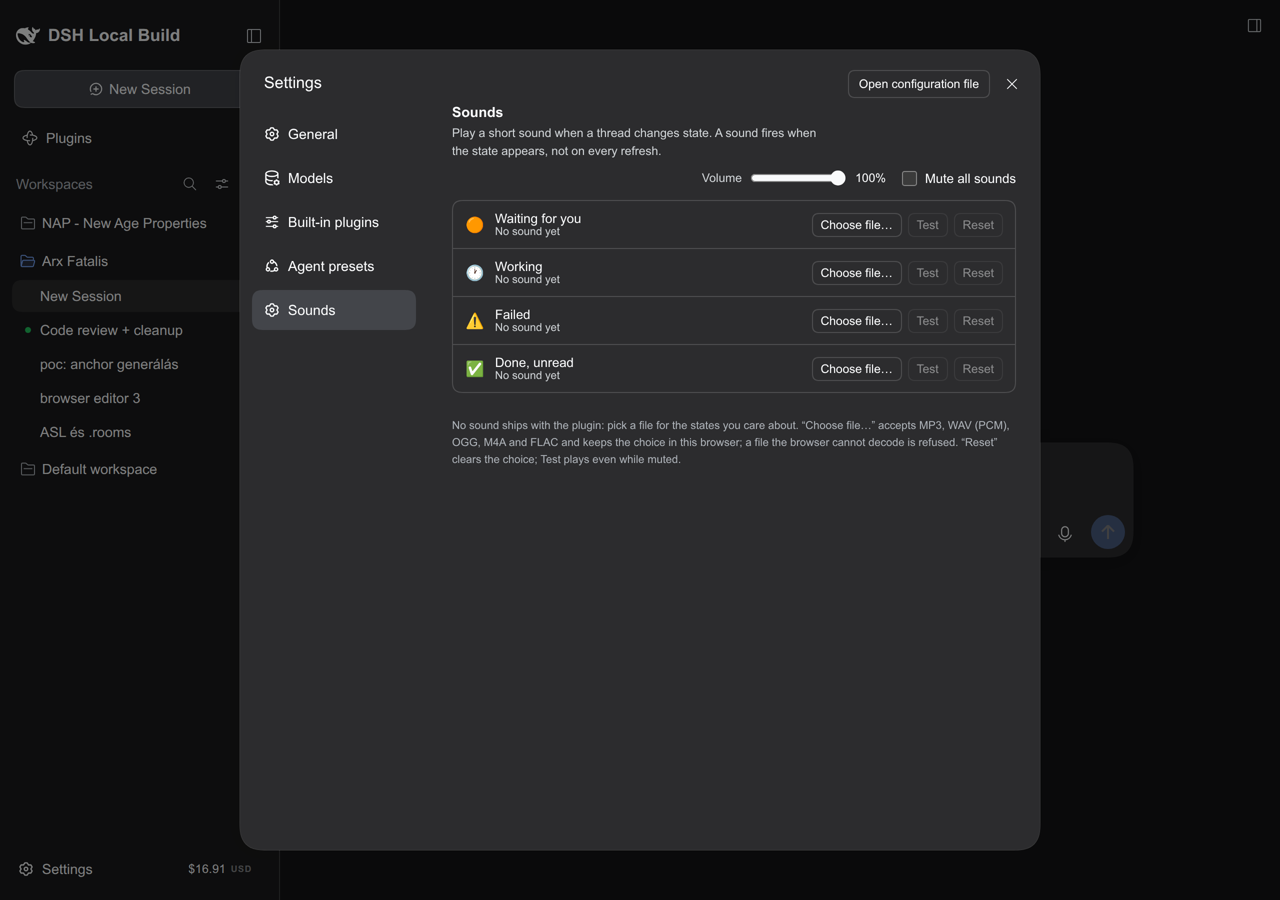
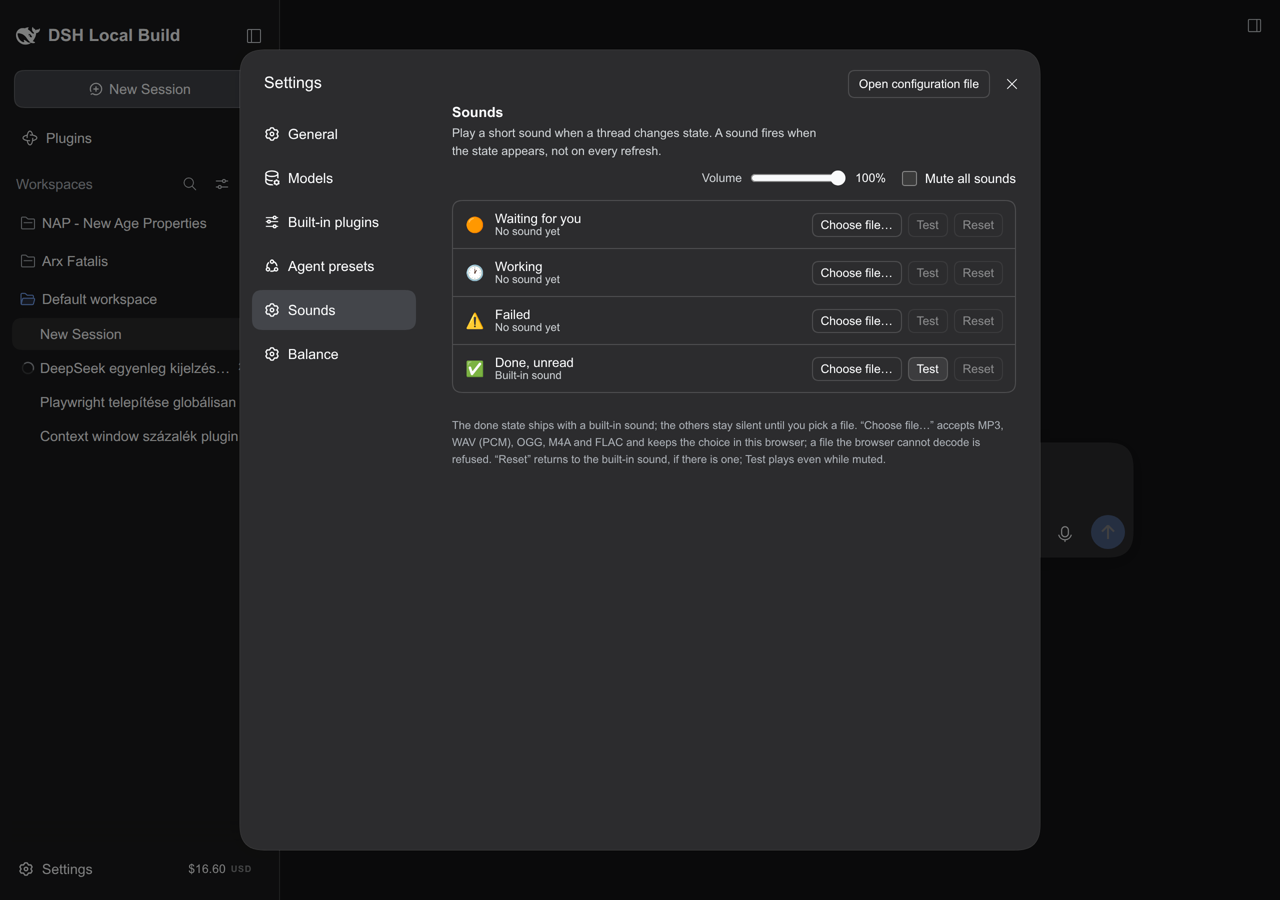
Ship the tada as the built-in done sound
The done state now plays a short built-in tada when everything settles, so the
happy path needs no setup. The other three states stay silent until a file is
picked; Reset returns to the built-in sound where one exists.

- the sound is embedded as an MP3 data URL, with its source kept at
  sounds/done.mp3
- the Sounds card labels it Built-in sound and enables Test for it
- version 1.2.0

diff --git a/client.js b/client.js
@@ -43,6 +43,21 @@ window.__ModuleLoader__.load({
     /** Host route carrying the last `turn/end` outcome per Session. */
     const STATUS_URL = '/plugins/dsh-title-indicator/status'
 
+    /**
+     * Built-in sound for the done state, embedded as a data URL.
+     *
+     * It ships inside the client bundle rather than behind a host route: this
+     * profile's HMR watches configuration only, so a new host route would stay
+     * dormant until the next restart, while a bundle update lands on the next
+     * page load. The source file lives beside this module as `sounds/done.mp3`.
+     *
+     * The other three states stay silent until the user picks a file, so the
+     * package ships exactly one, deliberately chosen sound.
+     */
+    const DEFAULT_SOUNDS = {
[1 lines of base64/hex data omitted]
+    }
+
     /** Title refresh cadence, and the poll for fresh turn outcomes. */
     const REFRESH_MS = 2000
 
@@ -592,9 +607,10 @@ window.__ModuleLoader__.load({
      * Owns the sound choices and the transition playback.
      *
      * Settings are per browser: the mute flag, the volume and one audio blob per
-     * state live in IndexedDB. No sound ships with the package, so a state stays
-     * silent until the user picks a file for it. The manager is deliberately
-     * injectable so the package test can drive it without a browser.
+     * state live in IndexedDB. The done state has a built-in sound from
+     * {@link DEFAULT_SOUNDS}; every other state stays silent until the user picks
+     * a file for it. The manager is deliberately injectable so the package test
+     * can drive it without a browser.
      *
      * @param {object} [services] - test seams.
      * @param {object} [services.store] - read/write/remove backend.
@@ -616,10 +632,12 @@ window.__ModuleLoader__.load({
 
       const buildSnapshot = () => {
         const customNames = {}
+        const builtIn = {}
         for (const state of SOUND_STATES) {
           customNames[state] = typeof custom[state]?.name === 'string' ? custom[state].name : null
+          builtIn[state] = typeof DEFAULT_SOUNDS[state] === 'string'
         }
-        return Object.freeze({ ready, muted, volume, custom: customNames })
+        return Object.freeze({ ready, muted, volume, custom: customNames, defaults: builtIn })
       }
 
       let snapshot = buildSnapshot()
@@ -723,8 +741,14 @@ window.__ModuleLoader__.load({
           if (!SOUND_STATES.includes(state)) return
           if (options.force !== true && muted) return
           const entry = custom[state]
-          // No sound ships with the package: silence until a file is picked.
-          if (entry === undefined) return
+          // A picked file wins; otherwise the state's built-in sound, if any.
+          if (entry === undefined) {
+            const fallback = DEFAULT_SOUNDS[state]
+            if (typeof fallback !== 'string') return
+            stopCurrent()
+            currentStop = playAudio(fallback, volume)
+            return
+          }
           if (typeof URL === 'undefined' || typeof URL.createObjectURL !== 'function') return
           const source = URL.createObjectURL(new Blob([entry.bytes], { type: entry.type }))
           stopCurrent()
@@ -908,7 +932,8 @@ window.__ModuleLoader__.load({
 
       const sourceOf = (state) => {
         const name = snapshot.custom[state]
-        return name === null ? 'No sound yet' : 'Custom: ' + name
+        if (name !== null) return 'Custom: ' + name
+        return snapshot.defaults[state] ? 'Built-in sound' : 'No sound yet'
       }
 
       const row = (entry) => h('div', { key: entry.state, className: 'dsh-sounds-row' },
@@ -929,7 +954,7 @@ window.__ModuleLoader__.load({
           h('button', {
             type: 'button',
             className: 'dsh-sounds-button',
-            disabled: snapshot.custom[entry.state] === null,
+            disabled: snapshot.custom[entry.state] === null && snapshot.defaults[entry.state] !== true,
             onClick: () => { sounds.play(entry.state, { force: true }) },
           }, 'Test'),
           h('button', {
@@ -1002,9 +1027,10 @@ window.__ModuleLoader__.load({
         }),
         h('div', { className: 'dsh-sounds-rows' }, SOUND_ROWS.map(row)),
         h('p', { className: 'dsh-sounds-footnote' },
-          'No sound ships with the plugin: pick a file for the states you care about. '
+          'The done state ships with a built-in sound; the others stay silent until you pick a file. '
           + '“Choose file…” accepts MP3, WAV (PCM), OGG, M4A and FLAC and keeps the choice in this browser; '
-          + 'a file the browser cannot decode is refused. “Reset” clears the choice; Test plays even while muted.'),
+          + 'a file the browser cannot decode is refused. “Reset” returns to the built-in sound, if there is one; '
+          + 'Test plays even while muted.'),
       )
     }
 
@@ -1054,6 +1080,7 @@ window.__ModuleLoader__.load({
     exports.createSoundManager = createSoundManager
     exports.describeAudioFile = describeAudioFile
     exports.ACCEPT_AUDIO = ACCEPT_AUDIO
+    exports.DEFAULT_SOUNDS = DEFAULT_SOUNDS
 
     return module.exports
   },
